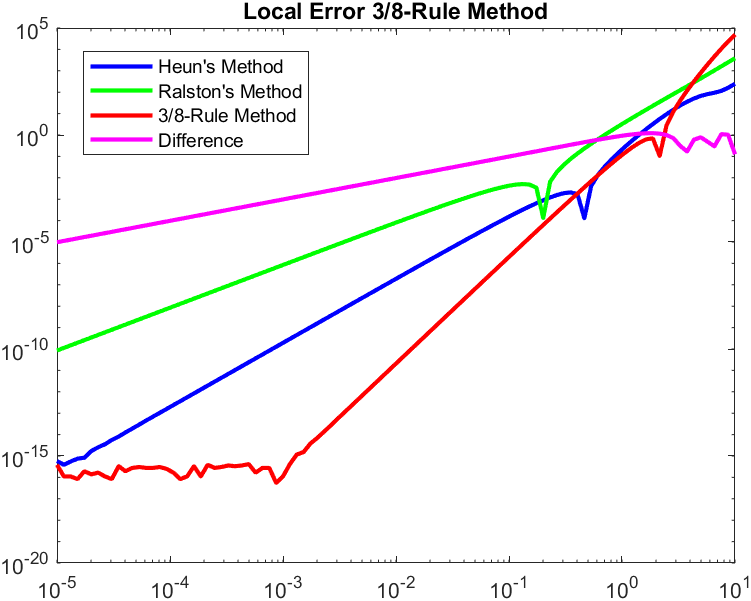
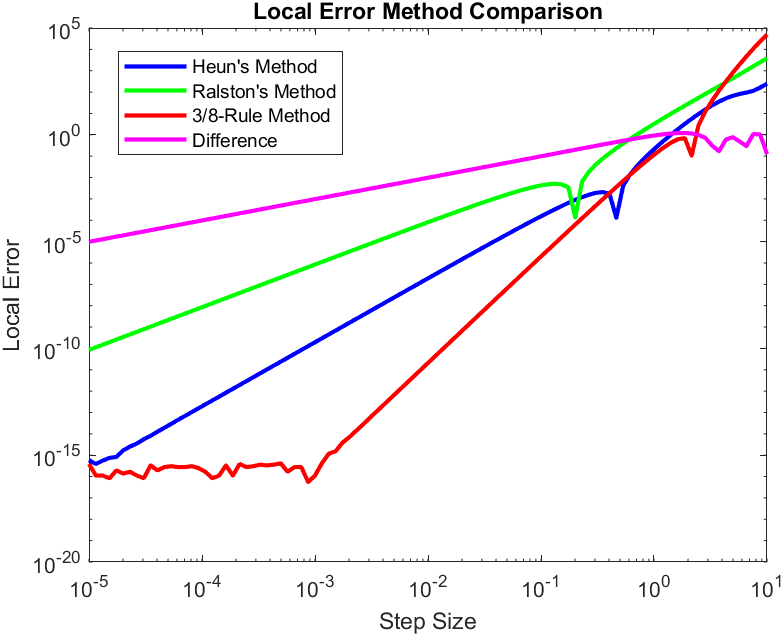
plot labels

diff --git a/explicit_rk.m b/explicit_rk.m
@@ -272,7 +272,9 @@ hold on
 loglog(h_list, local_error_eighth, 'r', 'LineWidth', 2);
 hold on
 loglog(h_list, difference, 'm', 'LineWidth', 2)
-title("Local Error 3/8-Rule Method")
+title("Local Error Method Comparison")
+xlabel("Step Size")
+ylabel("Local Error")
 legend("Heun's Method", "Ralston's Method", "3/8-Rule Method", "Difference")
 
 %% explicit_RK fixed_step integrator
